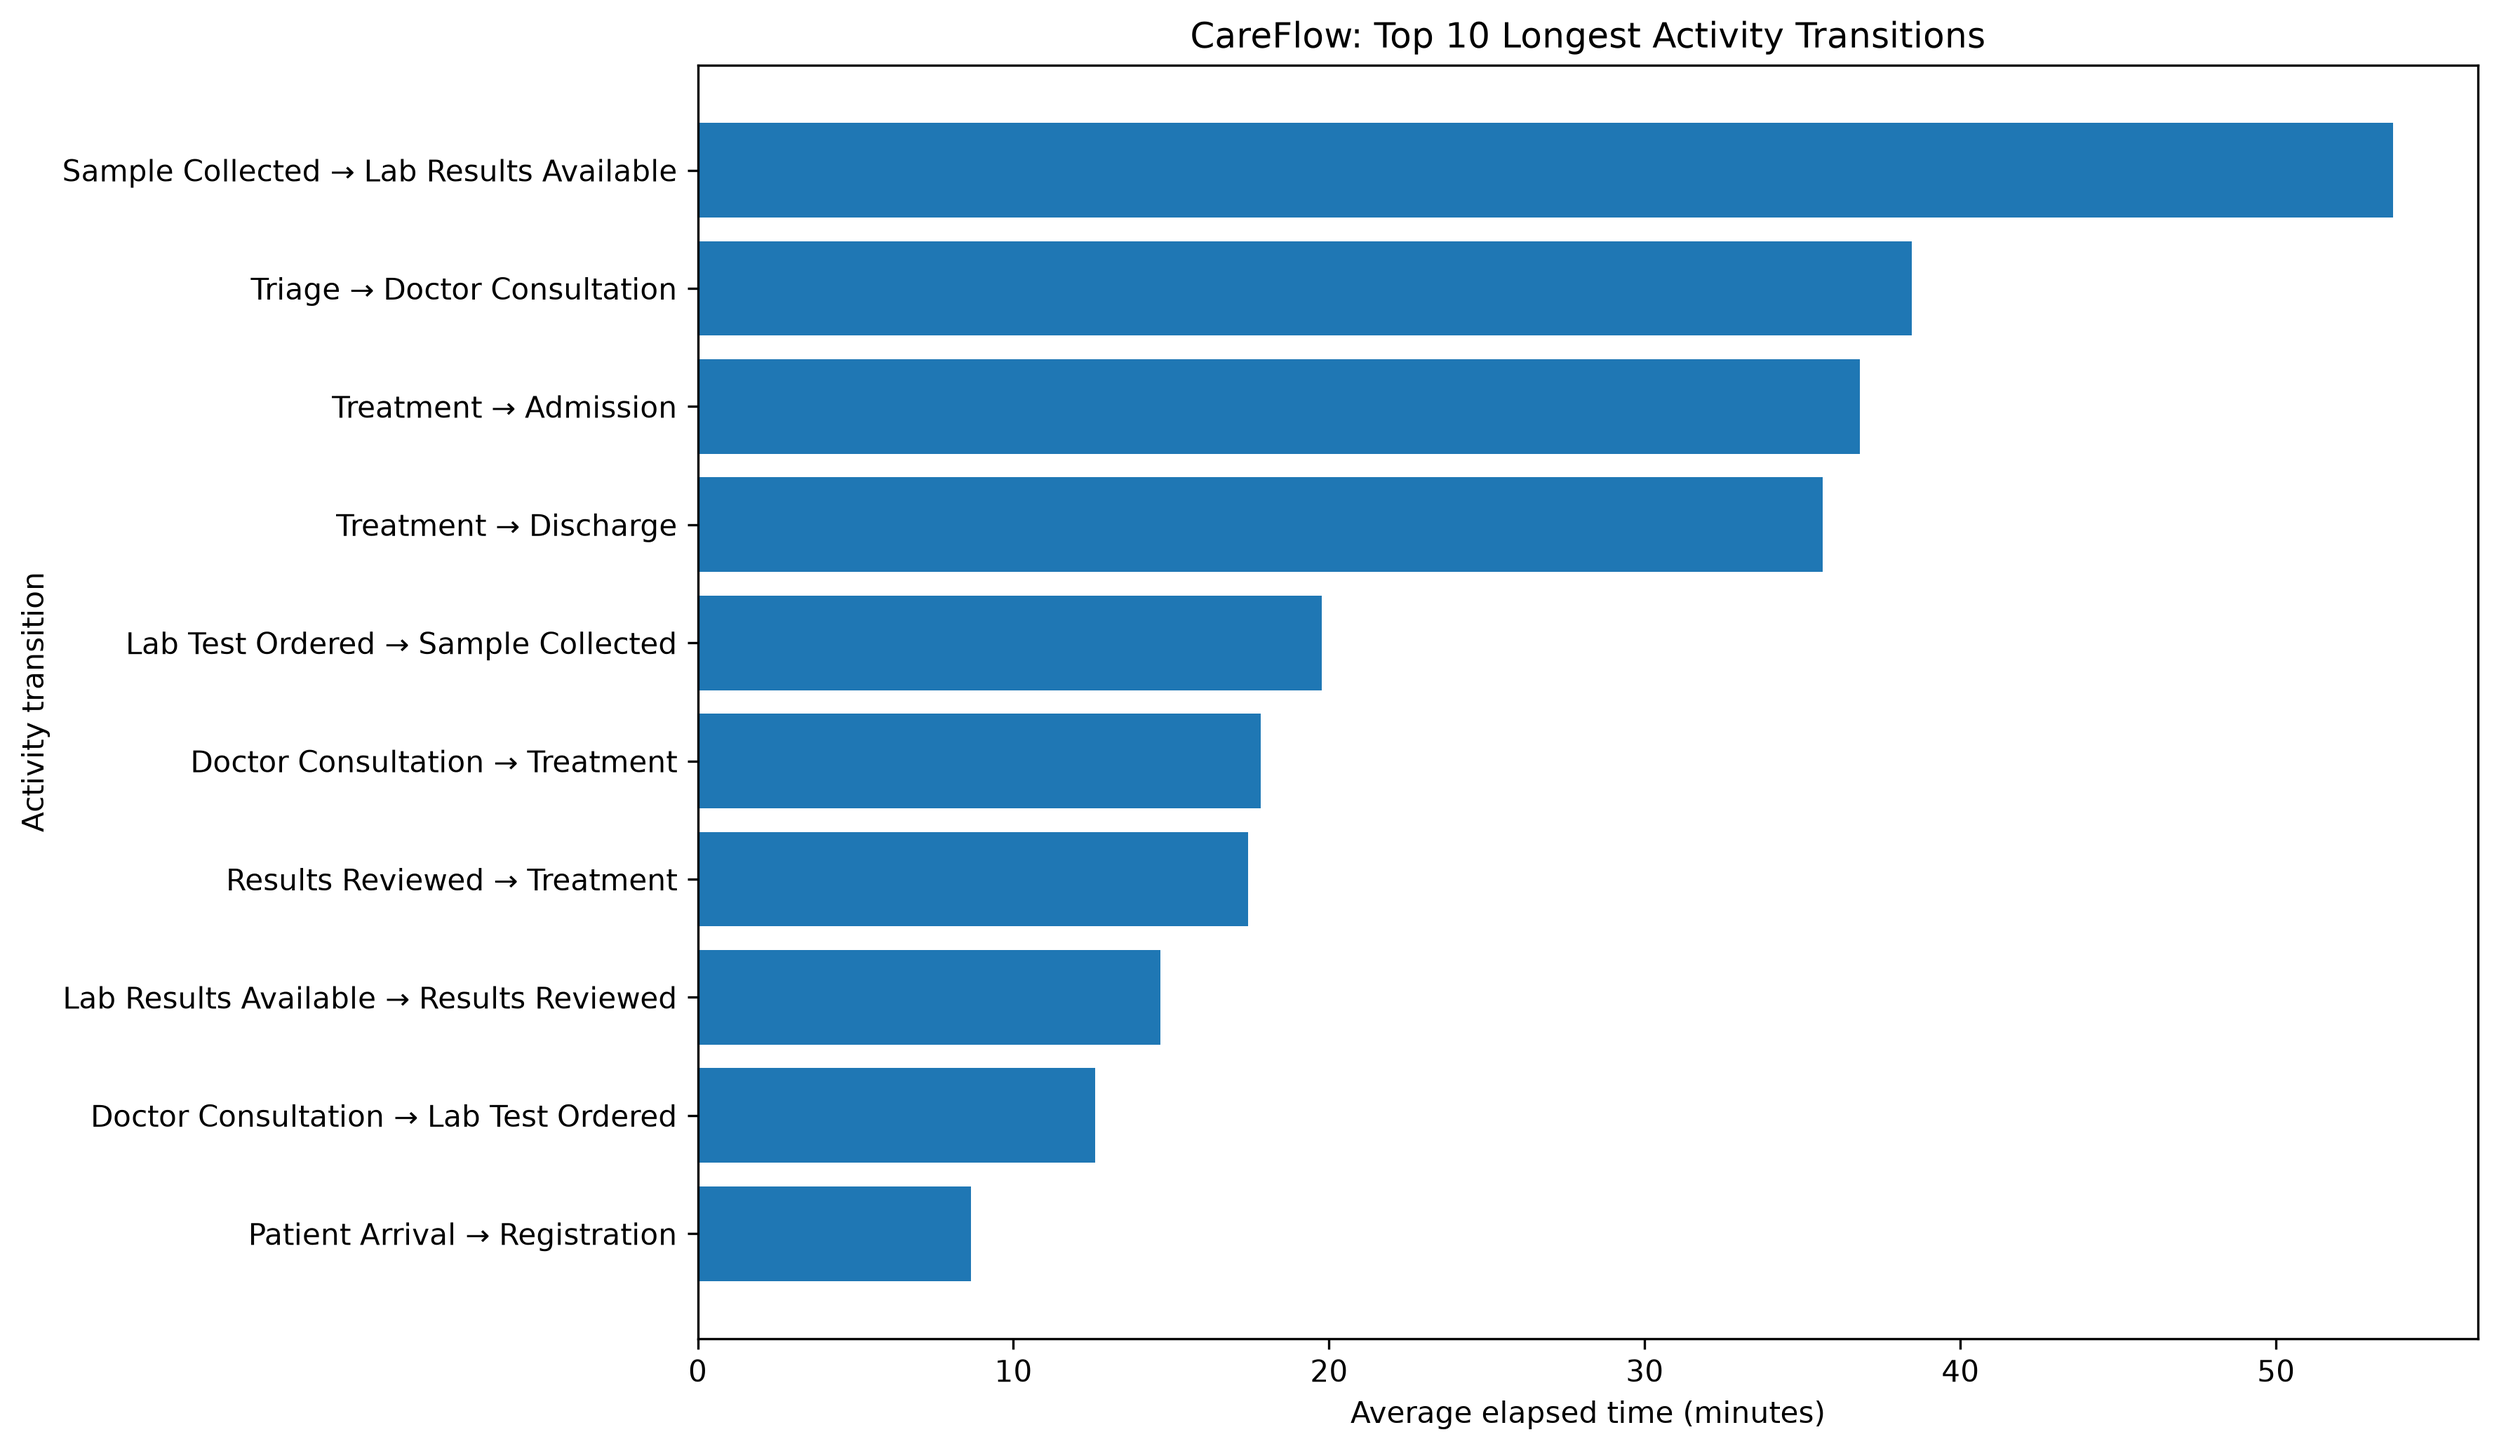
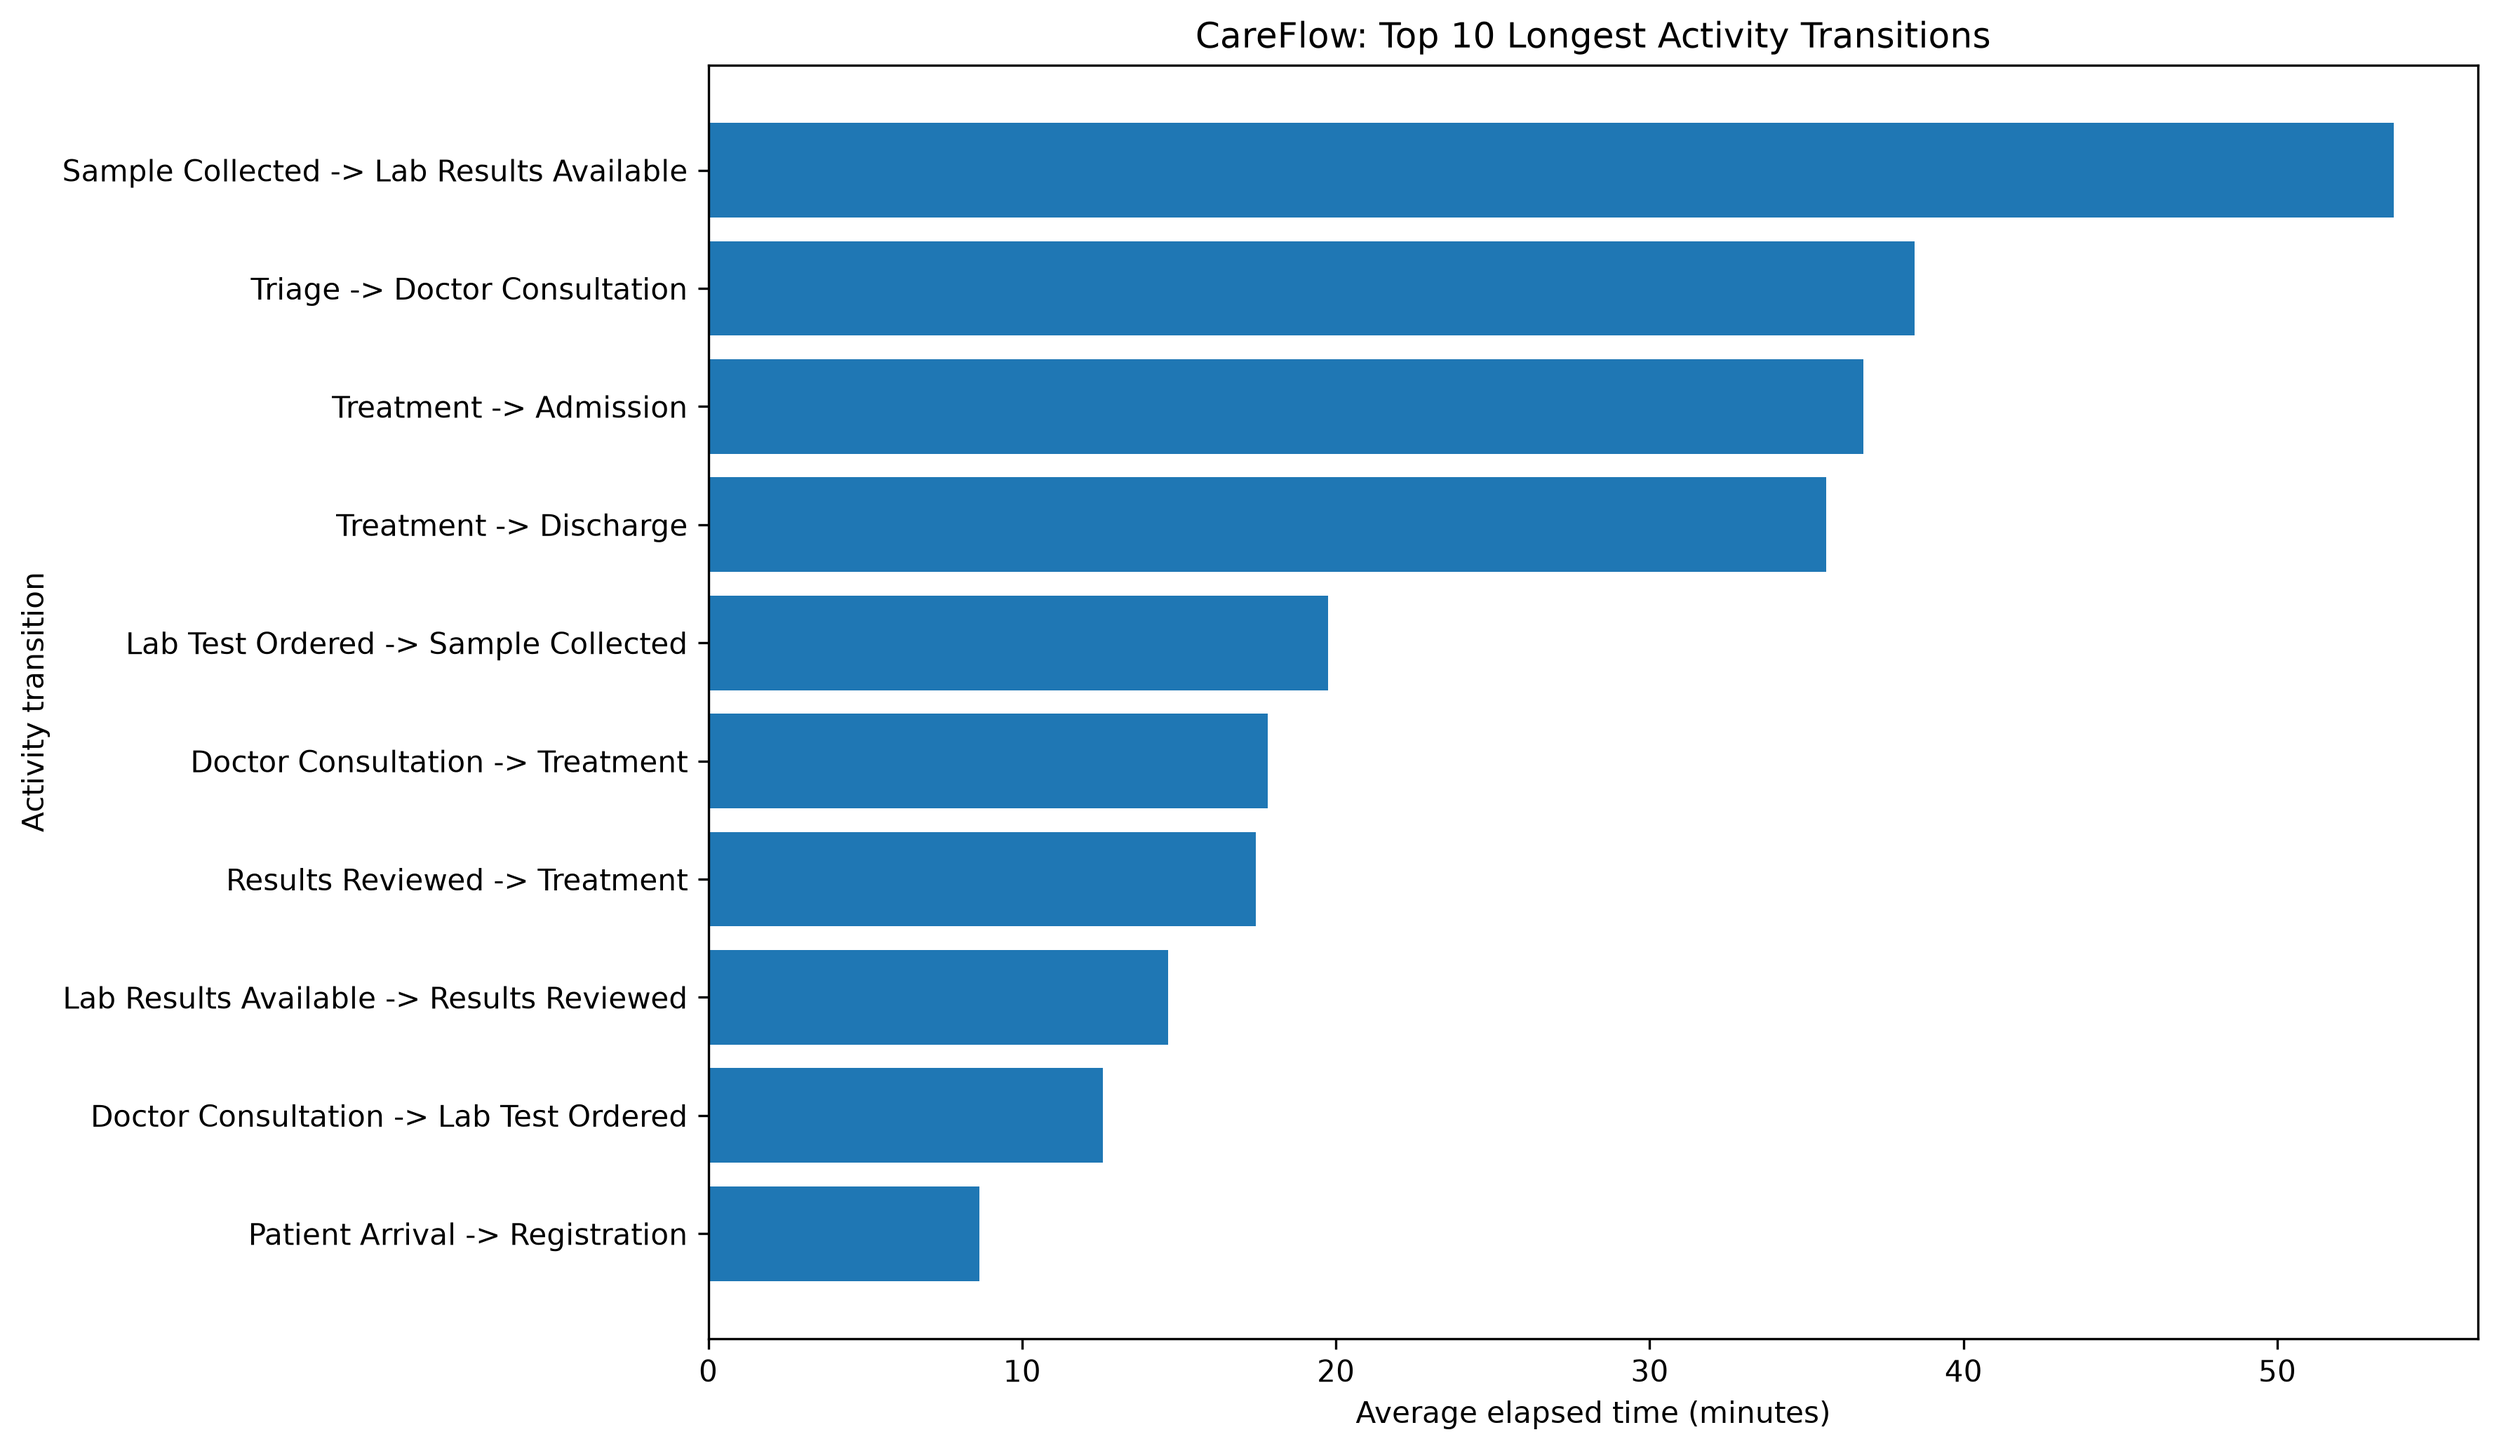
Complete CareFlow process discovery and bottleneck analysis

diff --git a/Data/discover_patient_process.py b/Data/discover_patient_process.py
@@ -1,0 +1,70 @@
+from pathlib import Path
+import pandas as pd
+import pm4py
+
+# Project paths
+DATA_DIR = Path(__file__).resolve().parent
+INPUT_FILE = DATA_DIR / "synthetic_event_log.csv"
+OUTPUT_FILE = DATA_DIR / "patient_process_map.png"
+
+# Load the event log
+df = pd.read_csv(INPUT_FILE)
+
+print("Columns found:", df.columns.tolist())
+print("Total events:", len(df))
+
+# Standardize column names
+df.columns = [col.strip().lower() for col in df.columns]
+
+# Map common column names to PM4Py format
+column_map = {
+    "case_id": "case:concept:name",
+    "patient_id": "case:concept:name",
+    "activity": "concept:name",
+    "activity_name": "concept:name",
+    "timestamp": "time:timestamp",
+    "event_timestamp": "time:timestamp",
+}
+
+df = df.rename(columns=column_map)
+
+required = [
+    "case:concept:name",
+    "concept:name",
+    "time:timestamp",
+]
+
+missing = [col for col in required if col not in df.columns]
+if missing:
+    raise ValueError(
+        f"Missing required columns: {missing}. "
+        f"Review the column names printed above."
+    )
+
+# Normalize timestamps and sort events
+df["time:timestamp"] = pd.to_datetime(
+    df["time:timestamp"], errors="coerce"
+)
+
+if df["time:timestamp"].isna().any():
+    raise ValueError("Some timestamps could not be parsed.")
+
+df = df.sort_values(
+    ["case:concept:name", "time:timestamp"]
+)
+
+# Discover the process model
+event_log = pm4py.convert_to_event_log(df)
+
+process_tree = pm4py.discover_process_tree_inductive(event_log)
+
+# Save a process visualization
+pm4py.save_vis_process_tree(
+    process_tree,
+    str(OUTPUT_FILE)
+)
+
+print("\nProcess discovery completed!")
+print("Patient cases:", df["case:concept:name"].nunique())
+print("Activities:", df["concept:name"].nunique())
+print("Process map saved to:", OUTPUT_FILE)

diff --git a/Data/bottleneck_analysis.py b/Data/bottleneck_analysis.py
@@ -9,35 +9,40 @@ output_file = DATA_DIR / "bottleneck_chart.png"
 
 df = pd.read_csv(summary_file)
 
-# Select the 10 transitions with the highest mean elapsed time
-df = df.sort_values("mean", ascending=False).head(10)
+df = pd.read_csv(summary_file)
 
+# Create transition labels
 df["transition"] = (
     df["previous_activity"].astype(str)
-    + " → "
+    + " -> "
     + df["activity"].astype(str)
 )
 
-df = df.sort_values("mean")
+# Select the 10 longest transitions
+df = df.sort_values(
+    "average_minutes",
+    ascending=False
+).head(10)
 
+# Create chart
 plt.figure(figsize=(12, 7))
-plt.barh(df["transition"], df["mean"])
+plt.barh(df["transition"], df["average_minutes"])
+
 plt.xlabel("Average elapsed time (minutes)")
 plt.ylabel("Activity transition")
 plt.title("CareFlow: Top 10 Longest Activity Transitions")
+plt.gca().invert_yaxis()
 plt.tight_layout()
 
+# Save chart
 plt.savefig(output_file, dpi=300, bbox_inches="tight")
 plt.show()
 
 print("Chart saved to:", output_file)
-print("\nTransitions with the highest average elapsed time:")
-print(df[["transition", "mean", "median", "max"]].to_string(index=False))
-# Save transition summary to CSV
-summary_file = DATA_DIR / "bottleneck_summary.csv"
-
-df[["transition", "mean", "median", "max"]].to_csv(
-    summary_file, index=False
+print("\nTop 10 longest transitions:")
+print(
+    df[
+        ["transition", "average_minutes",
+         "median_minutes", "maximum_minutes"]
+    ].to_string(index=False)
 )
-
-print(f"Summary saved to: {summary_file}")

diff --git a/Data/patient_pathway_findings.md b/Data/patient_pathway_findings.md
@@ -30,3 +30,61 @@ The dataset contains only three patient journeys, so these findings are prelimin
 6. Conclusion
 
 The analysis identifies transitions that may deserve further investigation. Additional data is needed to validate these findings and recommend workflow changes.
+
+# CareFlow: Patient Pathway Findings
+
+## Bottleneck Analysis
+
+The analysis identifies activity transitions with
+high average elapsed times in the synthetic patient event log.
+
+The longest visible transition is
+Sample Collected to Lab Results Available,
+with an average elapsed time of approximately 53.71 minutes.
+
+Other transitions with high elapsed times include
+Triage to Doctor Consultation and
+Treatment to Admission.
+
+## Recommendation
+
+Investigate delays in laboratory result processing,
+doctor consultation, and patient admission.
+These findings are based on synthetic data and
+require validation against real hospital data.
+
+# CareFlow – Patient Pathway Findings
+
+## 1. Project Overview
+CareFlow analyzes synthetic hospital patient event logs
+to identify delays in patient pathways.
+
+## 2. Process Discovery
+- Patient cases: 500
+- Total events: 4,420
+- Activities: 11
+
+## 3. Bottleneck Analysis
+The waiting-time analysis identifies transitions
+with high average elapsed times.
+
+The longest transition visible in the current
+summary is Sample Collected → Lab Results Available,
+with an average of approximately 53.71 minutes.
+
+Other transitions with high elapsed times include
+Triage → Doctor Consultation and
+Treatment → Admission.
+
+## 4. Recommendations
+- Investigate delays in laboratory result processing.
+- Review the time taken for doctor consultations.
+- Analyze delays in admission and discharge processes.
+
+## 5. Conclusion
+CareFlow demonstrates how process mining and
+waiting-time analysis can help identify potential
+bottlenecks in a simulated hospital workflow.
+
+Note: These findings are based on synthetic data,
+not actual hospital records.
